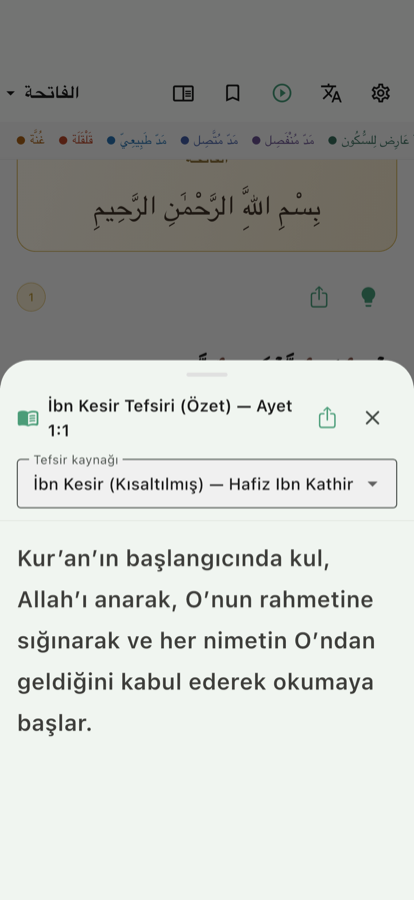
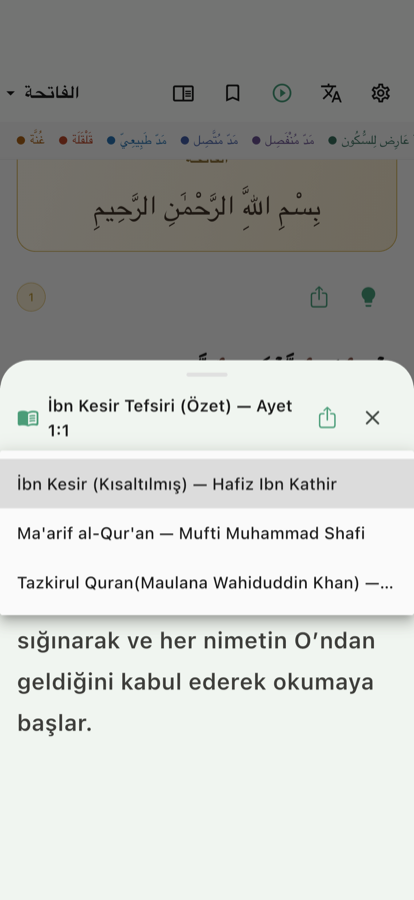
Show tafsir sources and text together in the onboarding guide
The tafsir guide page was meant to teach that the source is switchable,
but the open picker menu is as tall as the source list and covered the
whole sheet, so the image showed source names and none of the tafsir.

Cap the menu height. This is an app fix, not just a screenshot one --
losing sight of the tafsir you are switching away from is bad in the
sheet itself. About four rows fit, and the clipped row makes it obvious
the list scrolls.

The remaining half of the bug was on the render side and only visible on
a device: page 2 cropped its 414x900 asset with bottomCenter, so the
guide showed the last three source rows and a large empty area below the
tafsir. Centre alignment frames the menu and the text together at both
frame heights.

Changed region(s): [[0.0, 0.4978, 1.0, 0.7156], [0.9565, 0.4978, 1.0, 0.5911]]

diff --git a/integration_test/app_store_screenshots_test.dart b/integration_test/app_store_screenshots_test.dart
@@ -248,15 +248,30 @@ void main() {
     expect(find.byType(TafseerSheet), findsOneWidget);
     await _captureScreenshot(tester, binding, '03-tafseer');
     if (_onboardingAssetsOnly) {
-      // The source picker used to be opened here, but its menu covers the whole
-      // sheet -- the guide image showed a list of source names and none of the
-      // tafsir text it is meant to be teaching. The closed selector already
-      // shows that the source is switchable.
-      expect(
-        find.byKey(const ValueKey('tafseer-source-dropdown-169')),
-        findsOneWidget,
+      // The picker is opened so the guide shows that several tafsir sources
+      // are available. Its menu is height-capped, so the tafsir text stays
+      // visible underneath -- an uncapped menu covered the whole sheet and the
+      // image taught nothing but a list of source names.
+      final dropdown = find.byKey(
+        const ValueKey('tafseer-source-dropdown-169'),
       );
+      expect(dropdown, findsOneWidget);
+      await tester.tap(dropdown);
+      await _finishTransition(tester);
+
+      // The selected entry renders both in the closed field and in the open
+      // menu, so two matches proves the menu actually expanded.
+      expect(
+        find.byKey(const ValueKey('tafseer-source-169')),
+        findsAtLeastNWidgets(2),
+      );
+      // The capped menu must not swallow the sheet it sits on.
+      expect(find.byType(TafseerSheet), findsOneWidget);
       await _captureOnboardingAsset(tester, binding, '02-tafseer');
+
+      // Dismiss the dropdown overlay before popping the sheet itself.
+      await tester.tapAt(const Offset(8, 8));
+      await _finishTransition(tester);
     }
     Navigator.of(readerContext).pop();
     await _finishTransition(tester);

diff --git a/lib/features/reader/widgets/tafseer_sheet.dart b/lib/features/reader/widgets/tafseer_sheet.dart
@@ -502,6 +502,11 @@ class _TafseerSheetState extends State<TafseerSheet> {
         key: ValueKey('tafseer-source-dropdown-$_selectedTafsirId'),
         initialValue: hasSelectedSource ? _selectedTafsirId : null,
         isExpanded: true,
+        // Without a cap the menu is as tall as the source list, which covers
+        // the entire sheet -- you lose sight of the tafsir you are switching
+        // away from. Roughly four rows keeps the text underneath visible and
+        // makes it obvious the list scrolls.
+        menuMaxHeight: 232,
         decoration: InputDecoration(
           labelText: strings.text('select_source'),
           border: const OutlineInputBorder(),

diff --git a/lib/features/onboarding/onboarding_screen.dart b/lib/features/onboarding/onboarding_screen.dart
@@ -373,7 +373,7 @@ class _ScreenshotGuidePage extends StatelessWidget {
 /// the screen and were previously cropped away by a blanket top alignment.
 Alignment _screenshotAlignment(int page) => switch (page) {
   0 => Alignment.topCenter, // Coloured tajweed rules in the ayah list.
-  1 => Alignment.bottomCenter, // Tafseer sheet with the source picker open.
+  1 => Alignment.center, // Tafseer sheet: source menu plus the tafsir text.
   2 => Alignment.bottomCenter, // Audio player bar.
   3 => Alignment.bottomCenter, // Saved bookmarks sheet.
   4 => Alignment.center, // Hizb marker sits mid-page.
